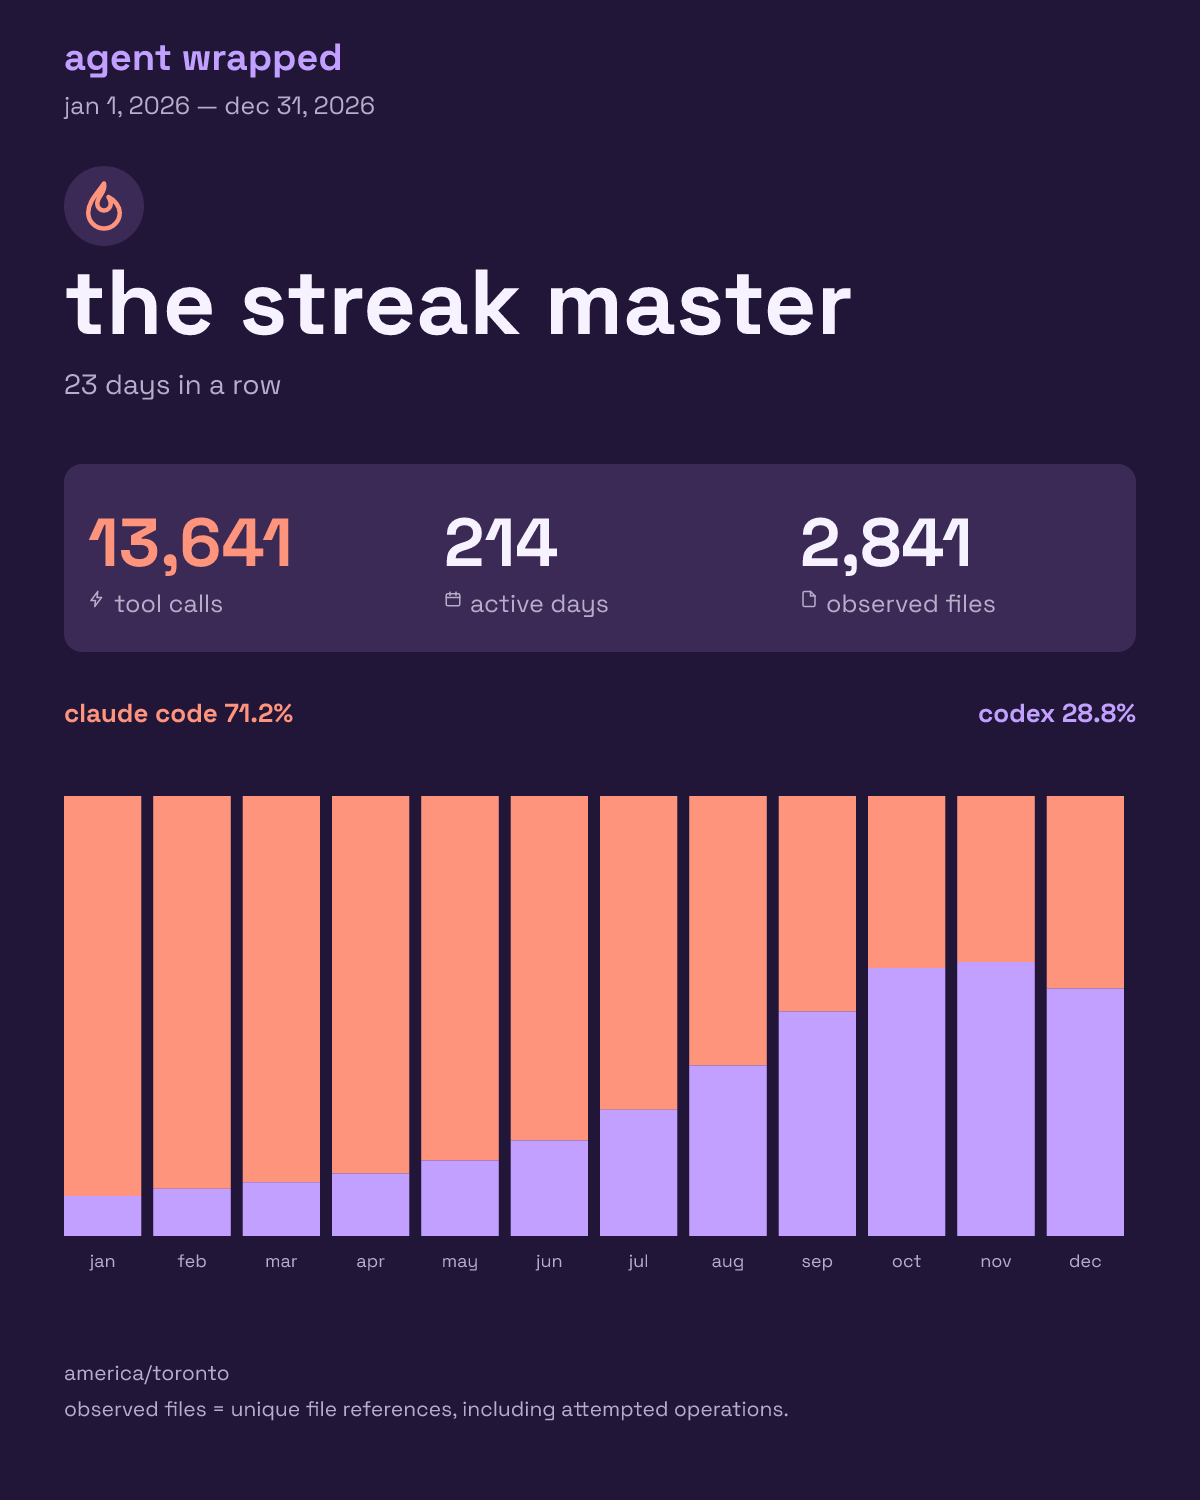
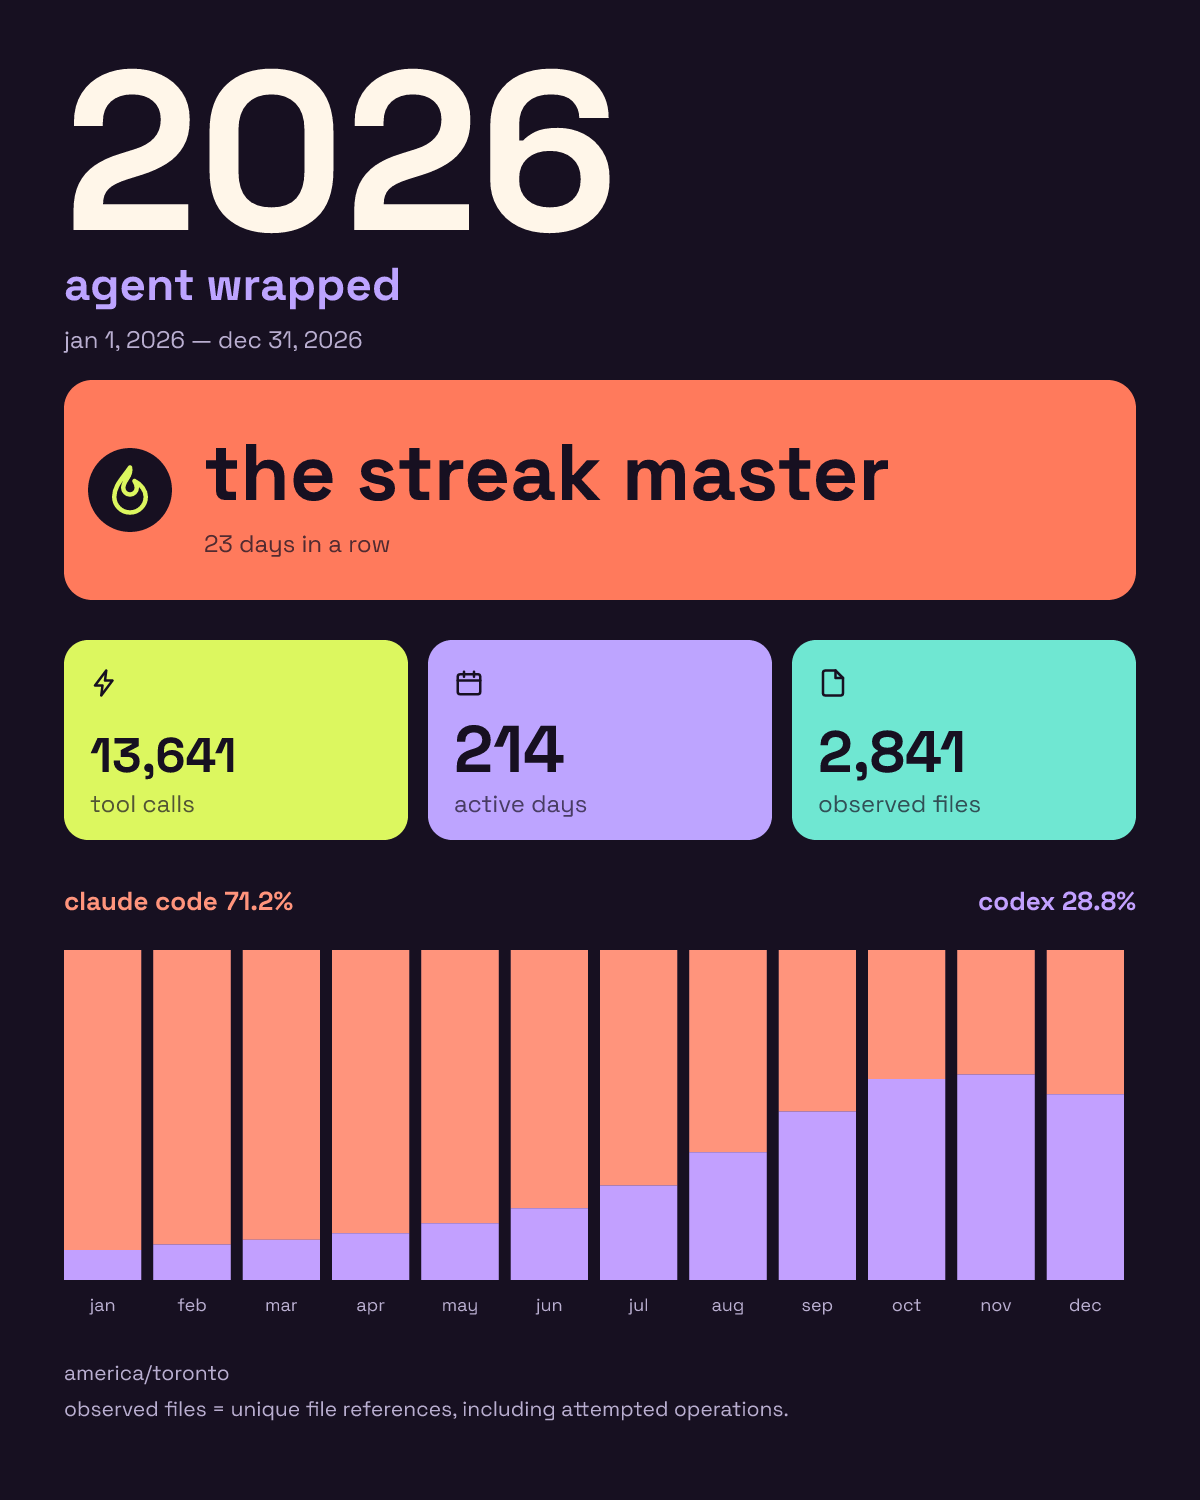
feat: restyle poster as bold color-blocked wrapped

diff --git a/src/poster-svg.ts b/src/poster-svg.ts
@@ -1,9 +1,12 @@
 import { posterModel } from './poster-model.js';
 import type { UsageSummary } from './types.js';
 
-const color = { ink: '#211638', paper: '#f7f2ff', lavender: '#c2a0ff', coral: '#ff947c', muted: '#b8accb', track: '#3a2a55' };
+const color = {
+  ink: '#171021', cream: '#fff6e9', coral: '#ff7a5c', lime: '#dcf75f', lavender: '#bda4ff',
+  teal: '#6fe7d2', muted: '#b9aed0', track: '#302447',
+};
 const escape = (value: string) => value.replace(/[&<>"']/g, char => ({ '&': '&amp;', '<': '&lt;', '>': '&gt;', '"': '&quot;', "'": '&apos;' })[char]!);
-const text = (x: number, y: number, value: string, size: number, fill = color.paper, weight = 400, extra = '') =>
+const text = (x: number, y: number, value: string, size: number, fill = color.cream, weight = 400, extra = '') =>
   `<text x="${x}" y="${y}" font-size="${size}" font-weight="${weight}" fill="${fill}" ${extra}>${escape(value)}</text>`;
 const icon = (name: string, path: string, x: number, y: number, size: number, stroke: string) =>
   `<g data-icon="${name}" transform="translate(${x} ${y}) scale(${size / 24})" fill="none" stroke="${stroke}" stroke-width="2" stroke-linecap="round" stroke-linejoin="round">${path}</g>`;
@@ -20,30 +23,33 @@ const statIcons = [
   '<rect x="3" y="5" width="18" height="16" rx="2"/><path d="M8 3v4M16 3v4M3 10h18"/>',
   '<path d="M14 2H6a2 2 0 0 0-2 2v16a2 2 0 0 0 2 2h12a2 2 0 0 0 2-2V8z"/><path d="M14 2v6h6"/>',
 ];
+const statColors = [color.lime, color.lavender, color.teal];
 
 /** fixed svg template: no caller-provided markup, fonts, urls, or labels. */
 export function renderPosterSvg(summary: UsageSummary): string {
   const model = posterModel(summary);
+  const yearSize = model.yearLabel.length <= 4 ? 226 : 148;
   const stats = [
     { value: model.total, label: 'tool calls' },
     { value: model.activeDays, label: 'active days' },
     { value: model.files, label: 'observed files' },
   ].map((stat, i) => {
-    const x = 88 + i * 356;
-    return icon(`stat-${i}`, statIcons[i]!, x, 590, 18, color.muted) +
-      text(x, 566, stat.value, Math.min(68, 440 / stat.value.length), i === 0 ? color.coral : color.paper, 700) +
-      text(x + 26, 612, stat.label, 25, color.muted);
+    const x = 64 + i * 364;
+    return `<rect x="${x}" y="640" width="344" height="200" rx="24" fill="${statColors[i]}"/>` +
+      icon(`stat-${i}`, statIcons[i]!, x + 26, 668, 30, color.ink) +
+      text(x + 26, 772, stat.value, Math.min(66, 292 / stat.value.length), color.ink, 700) +
+      text(x + 26, 812, stat.label, 24, color.ink, 400, 'fill-opacity="0.7"');
   }).join('');
   // these labels are also the color key for the monthly bars.
   const legend = model.lineup.map((agent, index) =>
-    text(index === 0 ? 64 : 1136, 722, `${agent.label} ${agent.share}`, 26, agent.color, 700,
+    text(index === 0 ? 64 : 1136, 910, `${agent.label} ${agent.share}`, 26, agent.color, 700,
       `text-anchor="${index === 0 ? 'start' : 'end'}" data-agent="${agent.id}"`)).join('');
   const timeline = model.timeline.map((month, index) => {
     const columns = Math.min(model.timeline.length, 12);
     const columnWidth = 1072 / columns;
-    const barHeight = model.timeline.length > 12 ? 200 : 440;
+    const barHeight = model.timeline.length > 12 ? 140 : 330;
     const x = 64 + (index % 12) * columnWidth;
-    const y = 796 + Math.floor(index / 12) * (barHeight + 57);
+    const y = 950 + Math.floor(index / 12) * (barHeight + 57);
     const width = columnWidth - 12;
     let offset = 0;
     const segments = month.segments.map(segment => {
@@ -61,15 +67,17 @@ export function renderPosterSvg(summary: UsageSummary): string {
   return `<svg xmlns="http://www.w3.org/2000/svg" width="1200" height="1500" viewBox="0 0 1200 1500">
     <rect width="1200" height="1500" fill="${color.ink}"/>
     <g font-family="Space Grotesk">
-      ${text(64, 70, 'agent wrapped', 38, color.lavender, 700)}
-      ${text(64, 114, model.period, 25, color.muted)}
-      <circle cx="104" cy="206" r="40" fill="${color.track}"/>
-      ${icon('archetype', archetypeIcons[model.archetype.id] ?? archetypeIcons.neutral!, 77, 179, 54, color.coral)}
-      ${text(64, 334, model.archetype.title, model.archetype.id === 'neutral' ? 78 : 92, color.paper, 700)}
-      ${text(64, 394, model.archetype.evidence, 28, color.muted)}
-      <rect x="64" y="464" width="1072" height="188" rx="18" fill="${color.track}"/>${stats}
+      ${text(64, 230, model.yearLabel, yearSize, color.cream, 700)}
+      ${text(64, 300, 'agent wrapped', 46, color.lavender, 700)}
+      ${text(64, 348, model.period, 24, color.muted)}
+      <rect x="64" y="380" width="1072" height="220" rx="28" fill="${color.coral}"/>
+      <circle cx="130" cy="490" r="42" fill="${color.ink}"/>
+      ${icon('archetype', archetypeIcons[model.archetype.id] ?? archetypeIcons.neutral!, 103, 463, 54, color.lime)}
+      ${text(204, 500, model.archetype.title, model.archetype.id === 'neutral' ? 68 : 80, color.ink, 700)}
+      ${text(204, 552, model.archetype.evidence, 24, color.ink, 400, 'fill-opacity="0.75"')}
+      ${stats}
+      ${model.timelineNote ? text(1136, 884, model.timelineNote, 18, color.muted, 400, 'text-anchor="end"') : ''}
       ${legend}
-      ${model.timelineNote ? text(1136, 760, model.timelineNote, 21, color.muted, 400, 'text-anchor="end"') : ''}
       ${timeline}
       ${text(64, 1380, model.timezone, 21, color.muted)}
       ${text(64, 1416, 'observed files = unique file references, including attempted operations.', 21, color.muted)}

diff --git a/src/poster-model.ts b/src/poster-model.ts
@@ -79,6 +79,8 @@ export function posterModel(summary: UsageSummary) {
   });
   return {
     period: `${dateLabel(summary.period.from)} — ${dateLabel(summary.period.to)}`,
+    yearLabel: summary.period.from.slice(0, 4) === summary.period.to.slice(0, 4) ? summary.period.from.slice(0, 4) :
+      `${summary.period.from.slice(0, 4)}–${summary.period.to.slice(0, 4)}`,
     timezone, total: formatCount(summary.totalCalls), files: formatCount(summary.observedFiles),
     activeDays: formatCount(summary.activeDays), archetype: archetype(summary), lineup, timeline,
     timelineNote: summary.months.length > 24 ? `latest 24 months: ${visibleMonths[0]!.month} — ${visibleMonths.at(-1)!.month}` : '',

diff --git a/README.md b/README.md
@@ -2,7 +2,7 @@
 
 local-only coding agent usage summaries: a personality headline, tool calls, active days, observed files, and how your agent mix changed over time. no model calls, telemetry, or uploads; summaries exclude transcript text and file paths.
 
-![sample agent wrapped poster showing an archetype headline, three stats, an agent share bar, and monthly agent mix](assets/sample-wrapped.png)
+![sample agent wrapped poster showing a large year, an archetype headline, three color-coded stats, and a monthly agent mix](assets/sample-wrapped.png)
 
 the sample above uses synthetic data.
 
